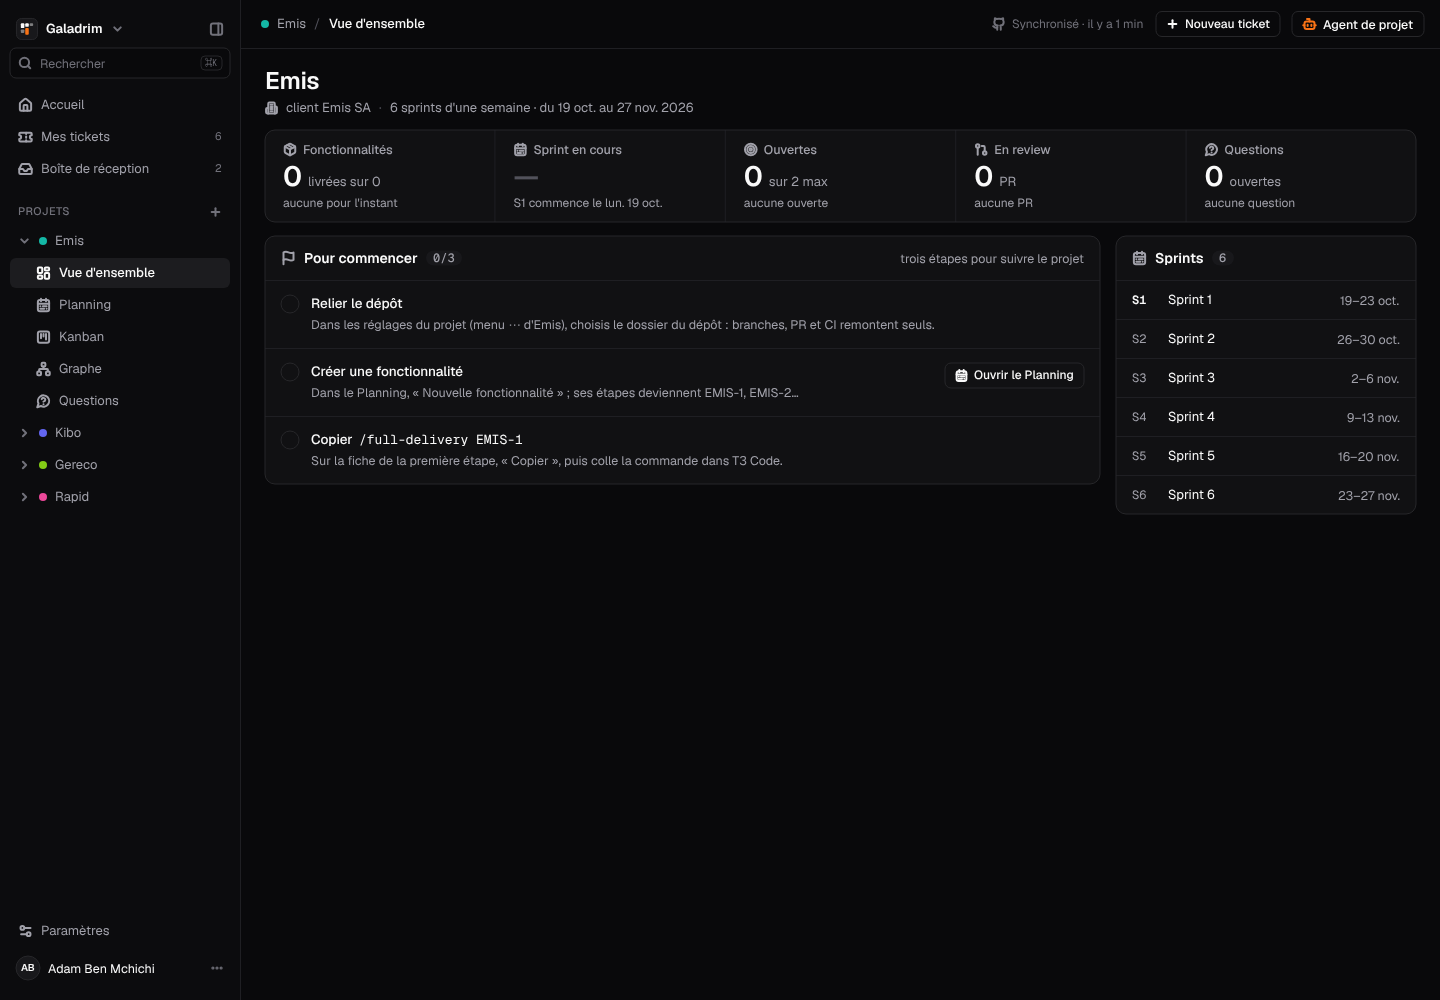
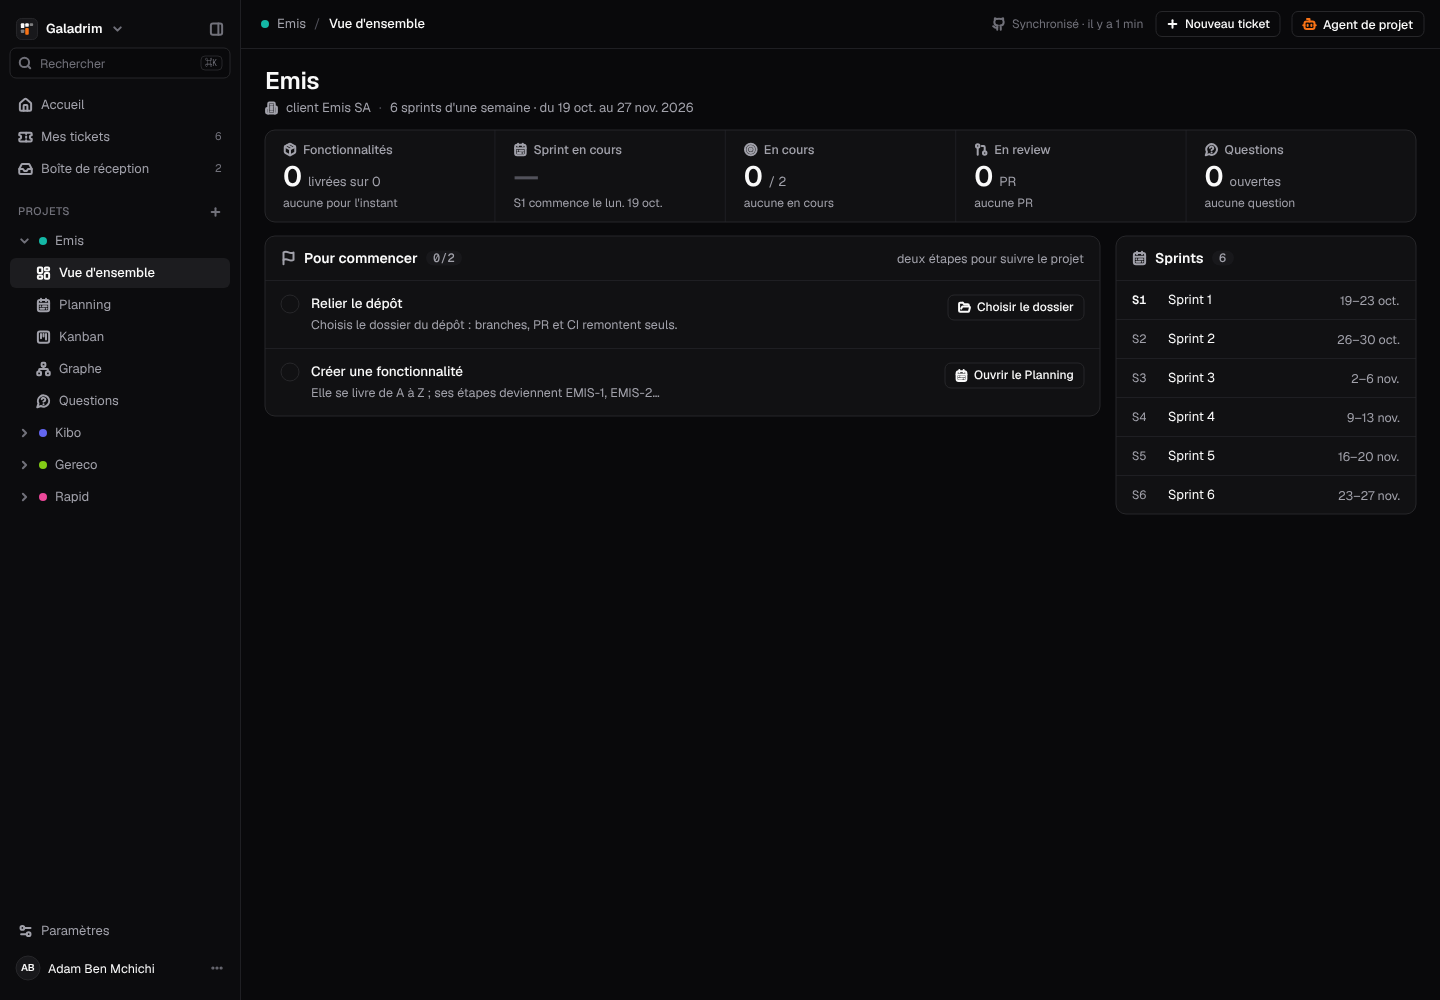
docs(design): P1 bis v3 du tour 2

diff --git a/design/redesign/scripts/55-phase-27.js b/design/redesign/scripts/55-phase-27.js
@@ -13,6 +13,8 @@ Object.assign(S.ICONS, {
   chevUp: '<path d="m18 15-6-6-6 6"/>',
   tag: '<path d="M12.586 2.586A2 2 0 0 0 11.172 2H4a2 2 0 0 0-2 2v7.172a2 2 0 0 0 .586 1.414l8.704 8.704a2.426 2.426 0 0 0 3.42 0l6.58-6.58a2.426 2.426 0 0 0 0-3.42z"/><circle cx="7.5" cy="7.5" r="1"/>',
   minus: '<circle cx="12" cy="12" r="10"/><path d="M8 12h8"/>',
+  triangleAlert: '<path d="m21.73 18-8-14a2 2 0 0 0-3.48 0l-8 14A2 2 0 0 0 4 21h16a2 2 0 0 0 1.73-3"/><path d="M12 9v4"/><path d="M12 17h.01"/>',
+  folderOpen: '<path d="m6 14 1.5-2.9A2 2 0 0 1 9.24 10H20a2 2 0 0 1 1.94 2.5l-1.54 6a2 2 0 0 1-1.95 1.5H4a2 2 0 0 1-2-2V5a2 2 0 0 1 2-2h3.9a2 2 0 0 1 1.69.9l.81 1.2a2 2 0 0 0 1.67.9H18a2 2 0 0 1 2 2v2"/>',
 });
 S.Y27 = 8000; S.STEP27 = 1500;
 S.ROWS27 = ["p-vue3", "p-commencer", "p-nouveau", "p-kanban", "p-fiche", "p-fiche-act", "p-questions", "p-barre", "p-agent-q", "p-agent-recap", "p-vue3-retard"];
@@ -72,16 +74,34 @@ S.toast = (p, text, action, o = {}) => { const C = S.C;
 // Au 16 oct., S42 est en cours : aucune carte « En retard » (référence pixel). Au 18 oct., entre deux sprints, S42 reste courant
 // (« terminé le 16 oct. ») et F5 est en retard : carte « En retard » sous Échéances et « 1 en retard » sous Fonctionnalités.
 S.setText = (scope, from, to) => { const t = S.byText(scope, from); if (!t) throw new Error("missing text: " + from); t.characters = to; return t; };
-S.vue3 = (x, y, late) => { const C = S.C, sec = C.mfg;
-  const f = S.rename(S.draw["p-vue2"](x, y), late ? "P1 bis v3 · En retard au 18 oct." : "P1 bis v3 · Vue d'ensemble");
+// Tour 2 (§39.6.18, .21) : « En cours n / limite », bloquées nommées, état du sprint par sprintPhase, « à risque » au 16 oct.
+S.inProgress27 = (f, late) => { const C = S.C;
   const kpis = penpotUtils.findShapes(s => s.name === "kpis", f)[0];
-  const lim = S.setText(kpis, "limite atteinte", "limite"), open = S.parentOf(kpis, lim); open.flex.columnGap = 4;
-  S.txt(open, "·", { size: 12, color: C.faint }); S.dot(open, C.red, 7); S.txt(open, "1 bloquée", { size: 12, color: sec });
+  S.setText(kpis, "Ouvertes", "En cours"); S.setText(kpis, "sur 2 max", "/ 2");
+  const lim = S.setText(kpis, "limite atteinte", "limite · bloquée : F6"), open = S.parentOf(kpis, lim);
+  const dot = open.children.find(c => c.name === "dot"); if (dot) dot.fills = [{ fillColor: C.red, fillOpacity: 1 }];
+  const sp = penpotUtils.findShapes(s => s.name === "card / Sprint S42 · Terrain hors ligne", f)[0] || f;
+  S.setText(sp, "2/2 ouvertes", "2/2 en cours");
+  S.setText(sp, "Limite de 2 ouvertes atteinte : F6 attendra la fin de F4 ou de F5.", "Limite de 2 en cours atteinte : F6 attendra la fin de F4 ou de F5.");
+  if (late) S.setText(sp, "12–16 oct.", "terminé le 16 oct. · reste 2");
+  for (const t of penpotUtils.findShapes(s => s.type === "text" && s.characters === "ouverte", sp)) { const pill = S.parentOf(sp, t), st = S.parentOf(sp, pill); pill.remove();
+    if (late) S.pill(st, "en cours", C.blue, C.blueSoft); else S.pill(st, "à risque", C.amber, C.amberSoft, "triangleAlert"); }
+  if (!late) for (const t of penpotUtils.findShapes(s => s.type === "text" && s.characters === "en retard", sp)) { const pill = S.parentOf(sp, t), st = S.parentOf(sp, pill); pill.remove(); S.pill(st, "à risque", C.amber, C.amberSoft, "triangleAlert"); }
+  if (late) return kpis;
+  S.setText(kpis, "finit ce soir", "Terrain ho…"); S.setText(kpis, "Terrain hors ligne", "se termine aujourd'hui");
+  const segs = penpotUtils.findShapes(s => s.name === "segs", kpis)[0], sub = S.parentOf(kpis, segs);
+  for (const c of segs.children) c.resize(5, c.height);
+  sub.layoutChild.horizontalSizing = "fill"; S.spacer(sub); S.txt(sub, "2 à risque", { size: 12, color: C.amber });
+  return kpis; };
+S.vue3 = (x, y, late) => { const C = S.C, sec = C.mfg;
+  const f5 = S.feat("F5"), wasLate = f5.late; if (!late) f5.late = false;
+  let f; try { f = S.rename(S.draw["p-vue2"](x, y), late ? "P1 bis v3 · En retard au 18 oct." : "P1 bis v3 · Vue d'ensemble"); } finally { f5.late = wasLate; }
+  const kpis = S.inProgress27(f, late);
   if (!late) return f;
   S.resizeScreen(f, 1360);
   const segs = penpotUtils.findShapes(s => s.name === "segs", kpis)[0], sub = S.parentOf(kpis, segs);
   segs.remove(); S.icon(sub, "clockAlert", 12, C.red); S.txt(sub, "1 en retard", { size: 12, weight: 500, color: C.red });
-  S.setText(kpis, "finit ce soir", "terminé"); S.setText(kpis, "Terrain hors ligne", "le 16 oct.");
+  S.setText(kpis, "finit ce soir", "Terrain ho…"); S.setText(kpis, "Terrain hors ligne", "terminé le 16 oct. · reste 2");
   S.setText(f, "S42 finit ce soir et F5 n'y tiendra pas : il lui reste 4 étapes sur 5. F4 n'attend plus que la correction de la PR #20 et sa démo.",
     "S42 est terminé depuis vendredi et F5 n'y a pas tenu : il lui reste 4 étapes sur 5. F4 n'attend plus que la correction de la PR #20 et sa démo.");
   S.setText(f, "4 étapes restantes, S42 finit aujourd'hui", "4 étapes restantes, S42 terminé le 16 oct.");
@@ -120,15 +140,14 @@ S.draw["p-commencer"] = (x, y) => { const C = S.C, sec = C.mfg;
   const ht = S.col(body, { gap: 4 }); S.txt(ht, "Emis", { size: 24, weight: 600, ls: -0.3 });
   const hs = S.row(ht, { gap: 8 }); S.icon(hs, "building", 13, sec); S.txt(hs, "client Emis SA", { size: 13, color: sec }); S.txt(hs, "·", { size: 13, color: C.faint }); S.txt(hs, "6 sprints d'une semaine · du 19 oct. au 27 nov. 2026", { size: 13, color: sec });
   S.kpis27(body, [["package", "Fonctionnalités", "0", "livrées sur 0", "aucune pour l'instant"], ["sprint", "Sprint en cours", "—", null, "S1 commence le lun. 19 oct."],
-    ["target", "Ouvertes", "0", "sur 2 max", "aucune ouverte"], ["pr", "En review", "0", "PR", "aucune PR"], ["question", "Questions", "0", "ouvertes", "aucune question"]]);
+    ["target", "En cours", "0", "/ 2", "aucune en cours"], ["pr", "En review", "0", "PR", "aucune PR"], ["question", "Questions", "0", "ouvertes", "aucune question"]]);
   const cols = S.row(body, { fx: true, gap: 16, align: "start" });
-  const go = S.card2(cols, "Pour commencer", "flag", { count: "0/3", right: h => S.txt(h, "trois étapes pour suivre le projet", { size: 12.5, color: sec }) });
-  const step = (title, mono, help, btn) => { const r = S.row2(go, { pad: [14, 16], gap: 12, align: "start" }); S.checkbox(r, false);
-    const tc = S.col(r, { fx: true, gap: 4 }); const tt = S.row(tc, { gap: 6 }); S.txt(tt, title, { size: 13.5, weight: 500 }); if (mono) S.txt(tt, mono, { size: 13, mono: true });
-    S.txt(tc, help, { size: 12.5, color: sec, fill: true, lh: 1.4 }); if (btn) S.btn(r, btn, "outline", { sm: true, icon: "sprint" }); };
-  step("Relier le dépôt", null, "Dans les réglages du projet (menu ⋯ d'Emis), choisis le dossier du dépôt : branches, PR et CI remontent seuls.");
-  step("Créer une fonctionnalité", null, "Dans le Planning, « Nouvelle fonctionnalité » ; ses étapes deviennent EMIS-1, EMIS-2…", "Ouvrir le Planning");
-  step("Copier", "/full-delivery EMIS-1", "Sur la fiche de la première étape, « Copier », puis colle la commande dans T3 Code.");
+  const go = S.card2(cols, "Pour commencer", "flag", { count: "0/2", right: h => S.txt(h, "deux étapes pour suivre le projet", { size: 12.5, color: sec }) });
+  const step = (title, help, btn, icon) => { const r = S.row2(go, { pad: [14, 16], gap: 12, align: "start" }); S.checkbox(r, false);
+    const tc = S.col(r, { fx: true, gap: 4 }); const tt = S.row(tc, { gap: 6 }); S.txt(tt, title, { size: 13.5, weight: 500 });
+    S.txt(tc, help, { size: 12.5, color: sec, fill: true, lh: 1.4 }); S.btn(r, btn, "outline", { sm: true, icon }); };
+  step("Relier le dépôt", "Choisis le dossier du dépôt : branches, PR et CI remontent seuls.", "Choisir le dossier", "folderOpen");
+  step("Créer une fonctionnalité", "Elle se livre de A à Z ; ses étapes deviennent EMIS-1, EMIS-2…", "Ouvrir le Planning", "sprint");
   const sp = S.card2(cols, "Sprints", "sprint", { w: 300, count: "6" });
   S.SPRINTS27.forEach(([k, d], i) => { const r = S.row2(sp, { h: 38, gap: 10 }); const a = S.row(r, { w: 26 }); S.txt(a, k, { size: 12, mono: true, color: i ? sec : C.fg, weight: i ? 400 : 600 });
     const b = S.row(r, { fx: true }); S.txt(b, "Sprint " + (i + 1), { size: 13 }); S.txt(r, d, { size: 12.5, color: sec }); });
